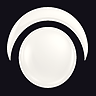
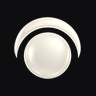
PWA: nombres cortos distintos (NiuBision / NB Coaching) e icono orb crema idéntico en web y app

diff --git a/index.html b/index.html
@@ -9,7 +9,7 @@
 <meta name="mobile-web-app-capable" content="yes">
 <meta name="apple-mobile-web-app-capable" content="yes">
 <meta name="apple-mobile-web-app-status-bar-style" content="black-translucent">
-<meta name="apple-mobile-web-app-title" content="NiuBision">
+<meta name="apple-mobile-web-app-title" content="NB Coaching">
 <title>NiuBision | Miguel Morales, entrenador personal en Puerto Rico</title>
 <meta name="description" content="Sitio oficial de NiuBision: entrenamiento personal y coaching en línea en Puerto Rico. Miguel Morales, veterano del Ejército de EE. UU. y certificado por el DRD, licencia 9798-3322359. Niubi + visión. El trabajo se ve. No se finge. See the work. Enjoy the day. No es tienda de ropa ni NiuVision Media.">
 <meta name="keywords" content="NiuBision, NiuBision Puerto Rico, Miguel Morales entrenador personal, entrenador personal Puerto Rico, coaching online Puerto Rico, certificado DRD 9798-3322359, niubision.com">
@@ -42,7 +42,7 @@
 <meta name="geo.region" content="US-PR">
 <meta name="geo.placename" content="Puerto Rico">
 <meta name="geo.country" content="US">
-<meta name="application-name" content="NiuBision">
+<meta name="application-name" content="NB Coaching">
 <script type="application/ld+json">
 {"@context":"https://schema.org","@graph":[
   {"@type":"WebSite","@id":"https://niubision.com/#website","url":"https://niubision.com/","name":"NiuBision","alternateName":["Niubi + visión"],"inLanguage":"es-PR","description":"Sitio oficial de NiuBision. Entrenamiento personal y coaching en línea en Puerto Rico, dirigido por Miguel Morales.","publisher":{"@id":"https://niubision.com/#org"},"about":{"@id":"https://niubision.com/#org"}},
@@ -77,12 +77,12 @@
 <meta name="referrer" content="strict-origin-when-cross-origin">
 <meta http-equiv="Permissions-Policy" content="camera=(), microphone=(), geolocation=()">
 <link rel="icon" href="/favicon.svg" type="image/svg+xml">
-<link rel="icon" type="image/png" sizes="48x48" href="/icon-48.png?v=and2">
-<link rel="icon" type="image/png" sizes="192x192" href="/icon-192.png?v=and2">
-<link rel="apple-touch-icon" href="/icon-180.png?v=and2">
-<link rel="apple-touch-icon" sizes="180x180" href="/icon-180.png?v=and2">
-<link rel="apple-touch-icon" sizes="192x192" href="/icon-192.png?v=and2">
-<link rel="manifest" href="/manifest.webmanifest?v=and2">
+<link rel="icon" type="image/png" sizes="48x48" href="/icon-48.png?v=nb3">
+<link rel="icon" type="image/png" sizes="192x192" href="/icon-192.png?v=nb3">
+<link rel="apple-touch-icon" href="/icon-180.png?v=nb3">
+<link rel="apple-touch-icon" sizes="180x180" href="/icon-180.png?v=nb3">
+<link rel="apple-touch-icon" sizes="192x192" href="/icon-192.png?v=nb3">
+<link rel="manifest" href="/manifest.webmanifest?v=nb3">
 <link rel="stylesheet" href="/app/styles.css?v=hybrid-v15">
 </head>
 <body>

diff --git a/public/index.html b/public/index.html
@@ -9,7 +9,7 @@
 <meta name="mobile-web-app-capable" content="yes">
 <meta name="apple-mobile-web-app-capable" content="yes">
 <meta name="apple-mobile-web-app-status-bar-style" content="black-translucent">
-<meta name="apple-mobile-web-app-title" content="NiuBision">
+<meta name="apple-mobile-web-app-title" content="NB Coaching">
 <title>NiuBision | Miguel Morales, entrenador personal en Puerto Rico</title>
 <meta name="description" content="Sitio oficial de NiuBision: entrenamiento personal y coaching en línea en Puerto Rico. Miguel Morales, veterano del Ejército de EE. UU. y certificado por el DRD, licencia 9798-3322359. Niubi + visión. El trabajo se ve. No se finge. See the work. Enjoy the day. No es tienda de ropa ni NiuVision Media.">
 <meta name="keywords" content="NiuBision, NiuBision Puerto Rico, Miguel Morales entrenador personal, entrenador personal Puerto Rico, coaching online Puerto Rico, certificado DRD 9798-3322359, niubision.com">
@@ -42,7 +42,7 @@
 <meta name="geo.region" content="US-PR">
 <meta name="geo.placename" content="Puerto Rico">
 <meta name="geo.country" content="US">
-<meta name="application-name" content="NiuBision">
+<meta name="application-name" content="NB Coaching">
 <script type="application/ld+json">
 {"@context":"https://schema.org","@graph":[
   {"@type":"WebSite","@id":"https://niubision.com/#website","url":"https://niubision.com/","name":"NiuBision","alternateName":["Niubi + visión"],"inLanguage":"es-PR","description":"Sitio oficial de NiuBision. Entrenamiento personal y coaching en línea en Puerto Rico, dirigido por Miguel Morales.","publisher":{"@id":"https://niubision.com/#org"},"about":{"@id":"https://niubision.com/#org"}},
@@ -77,12 +77,12 @@
 <meta name="referrer" content="strict-origin-when-cross-origin">
 <meta http-equiv="Permissions-Policy" content="camera=(), microphone=(), geolocation=()">
 <link rel="icon" href="/favicon.svg" type="image/svg+xml">
-<link rel="icon" type="image/png" sizes="48x48" href="/icon-48.png?v=and2">
-<link rel="icon" type="image/png" sizes="192x192" href="/icon-192.png?v=and2">
-<link rel="apple-touch-icon" href="/icon-180.png?v=and2">
-<link rel="apple-touch-icon" sizes="180x180" href="/icon-180.png?v=and2">
-<link rel="apple-touch-icon" sizes="192x192" href="/icon-192.png?v=and2">
-<link rel="manifest" href="/manifest.webmanifest?v=and2">
+<link rel="icon" type="image/png" sizes="48x48" href="/icon-48.png?v=nb3">
+<link rel="icon" type="image/png" sizes="192x192" href="/icon-192.png?v=nb3">
+<link rel="apple-touch-icon" href="/icon-180.png?v=nb3">
+<link rel="apple-touch-icon" sizes="180x180" href="/icon-180.png?v=nb3">
+<link rel="apple-touch-icon" sizes="192x192" href="/icon-192.png?v=nb3">
+<link rel="manifest" href="/manifest.webmanifest?v=nb3">
 <link rel="stylesheet" href="/app/styles.css?v=hybrid-v15">
 </head>
 <body>

diff --git a/public/niubision.html b/public/niubision.html
@@ -9,7 +9,7 @@
 <meta name="mobile-web-app-capable" content="yes">
 <meta name="apple-mobile-web-app-capable" content="yes">
 <meta name="apple-mobile-web-app-status-bar-style" content="black-translucent">
-<meta name="apple-mobile-web-app-title" content="NiuBision">
+<meta name="apple-mobile-web-app-title" content="NB Coaching">
 <title>NiuBision | Miguel Morales, entrenador personal en Puerto Rico</title>
 <meta name="description" content="Sitio oficial de NiuBision: entrenamiento personal y coaching en línea en Puerto Rico. Miguel Morales, veterano del Ejército de EE. UU. y certificado por el DRD, licencia 9798-3322359. Niubi + visión. El trabajo se ve. No se finge. See the work. Enjoy the day. No es tienda de ropa ni NiuVision Media.">
 <meta name="keywords" content="NiuBision, NiuBision Puerto Rico, Miguel Morales entrenador personal, entrenador personal Puerto Rico, coaching online Puerto Rico, certificado DRD 9798-3322359, niubision.com">
@@ -42,7 +42,7 @@
 <meta name="geo.region" content="US-PR">
 <meta name="geo.placename" content="Puerto Rico">
 <meta name="geo.country" content="US">
-<meta name="application-name" content="NiuBision">
+<meta name="application-name" content="NB Coaching">
 <script type="application/ld+json">
 {"@context":"https://schema.org","@graph":[
   {"@type":"WebSite","@id":"https://niubision.com/#website","url":"https://niubision.com/","name":"NiuBision","alternateName":["Niubi + visión"],"inLanguage":"es-PR","description":"Sitio oficial de NiuBision. Entrenamiento personal y coaching en línea en Puerto Rico, dirigido por Miguel Morales.","publisher":{"@id":"https://niubision.com/#org"},"about":{"@id":"https://niubision.com/#org"}},
@@ -77,12 +77,12 @@
 <meta name="referrer" content="strict-origin-when-cross-origin">
 <meta http-equiv="Permissions-Policy" content="camera=(), microphone=(), geolocation=()">
 <link rel="icon" href="/favicon.svg" type="image/svg+xml">
-<link rel="icon" type="image/png" sizes="48x48" href="/icon-48.png?v=and2">
-<link rel="icon" type="image/png" sizes="192x192" href="/icon-192.png?v=and2">
-<link rel="apple-touch-icon" href="/icon-180.png?v=and2">
-<link rel="apple-touch-icon" sizes="180x180" href="/icon-180.png?v=and2">
-<link rel="apple-touch-icon" sizes="192x192" href="/icon-192.png?v=and2">
-<link rel="manifest" href="/manifest.webmanifest?v=and2">
+<link rel="icon" type="image/png" sizes="48x48" href="/icon-48.png?v=nb3">
+<link rel="icon" type="image/png" sizes="192x192" href="/icon-192.png?v=nb3">
+<link rel="apple-touch-icon" href="/icon-180.png?v=nb3">
+<link rel="apple-touch-icon" sizes="180x180" href="/icon-180.png?v=nb3">
+<link rel="apple-touch-icon" sizes="192x192" href="/icon-192.png?v=nb3">
+<link rel="manifest" href="/manifest.webmanifest?v=nb3">
 <link rel="stylesheet" href="/app/styles.css?v=hybrid-v15">
 </head>
 <body>

diff --git a/web/index.html b/web/index.html
@@ -15,9 +15,13 @@
 <link rel="canonical" href="__WEB_URL__/">
 <link rel="alternate" hreflang="es-PR" href="__WEB_URL__/">
 <link rel="alternate" hreflang="x-default" href="__WEB_URL__/">
-<link rel="icon" type="image/svg+xml" href="/assets/favicon.svg">
-<link rel="icon" type="image/png" sizes="512x512" href="/assets/logo.png">
-<link rel="apple-touch-icon" href="/assets/icon-180.png">
+<link rel="icon" type="image/svg+xml" href="/assets/favicon.svg?v=nb3">
+<link rel="icon" type="image/png" sizes="32x32" href="/assets/favicon-32.png?v=nb3">
+<link rel="icon" type="image/png" sizes="512x512" href="/assets/icon-512.png?v=nb3">
+<link rel="apple-touch-icon" sizes="180x180" href="/assets/icon-180.png?v=nb3">
+<meta name="apple-mobile-web-app-title" content="NiuBision">
+<meta name="application-name" content="NiuBision">
+<link rel="manifest" href="/manifest.webmanifest?v=nb3">
 <meta property="og:locale" content="es_PR">
 <meta property="og:type" content="website">
 <meta property="og:site_name" content="NiuBision">

diff --git a/public/sw.js b/public/sw.js
@@ -1,4 +1,4 @@
-const CACHE = "nb-offline-hybrid-v17";
+const CACHE = "nb-offline-hybrid-v18";
 const SHELL = [
   "/",
   "/index.html",

diff --git a/sw.js b/sw.js
@@ -1,4 +1,4 @@
-const CACHE = "nb-offline-hybrid-v17";
+const CACHE = "nb-offline-hybrid-v18";
 const SHELL = [
   "/",
   "/index.html",
